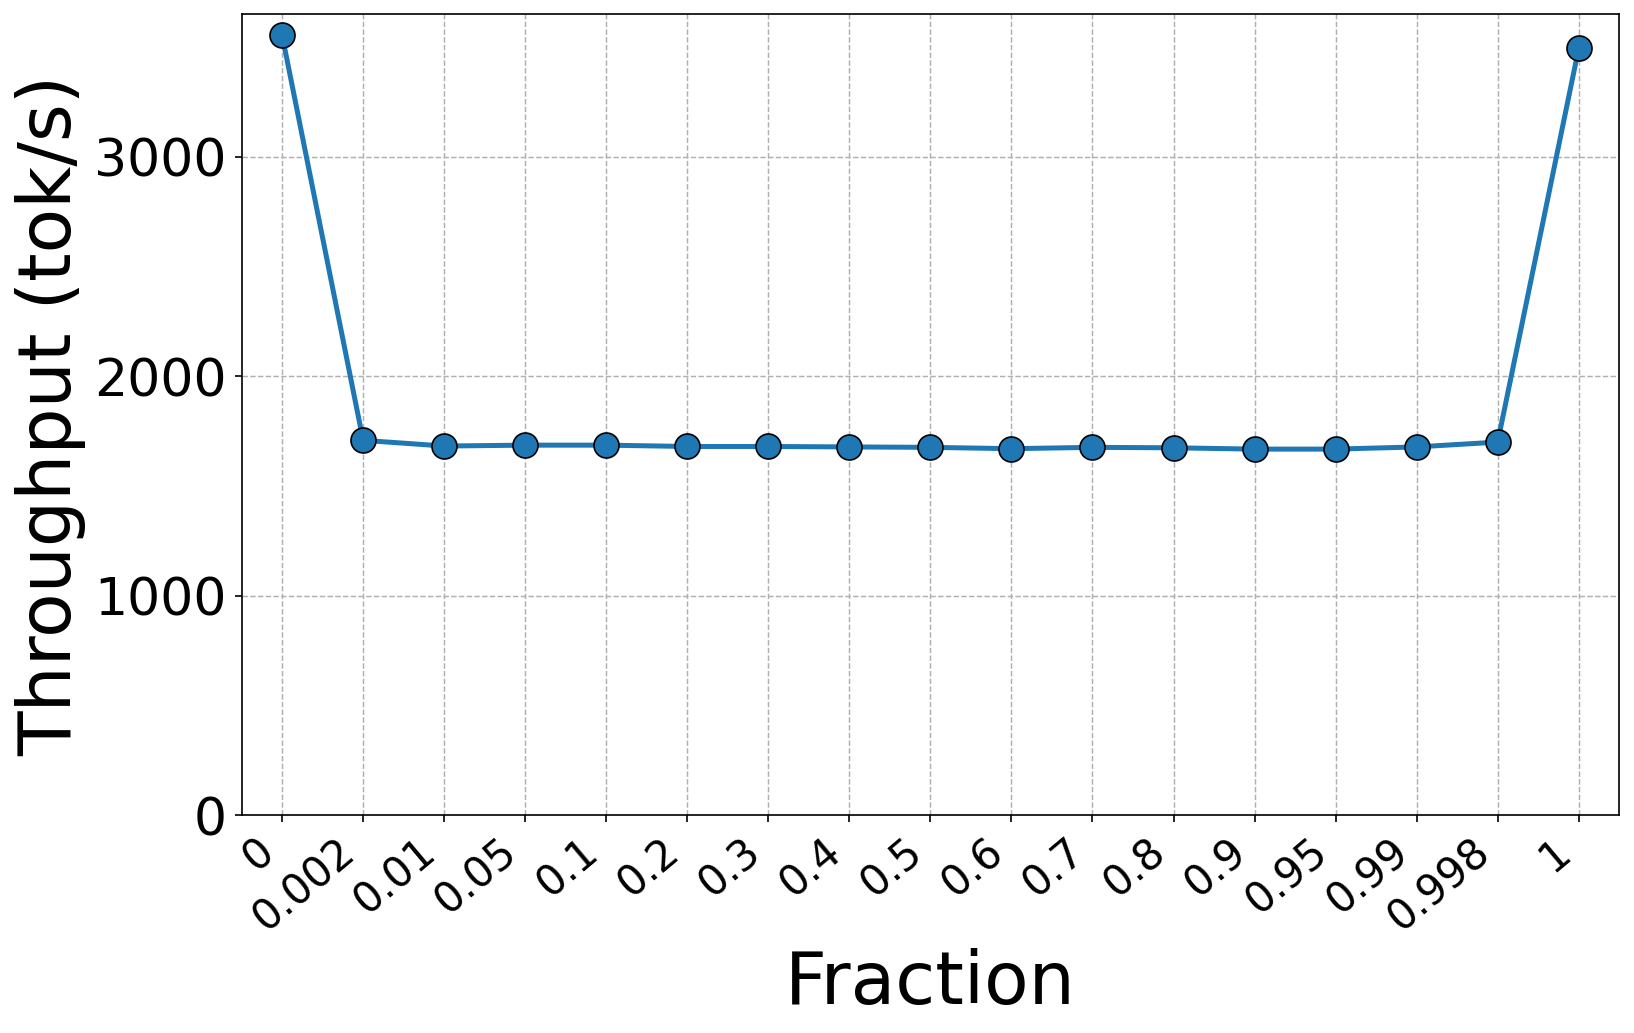
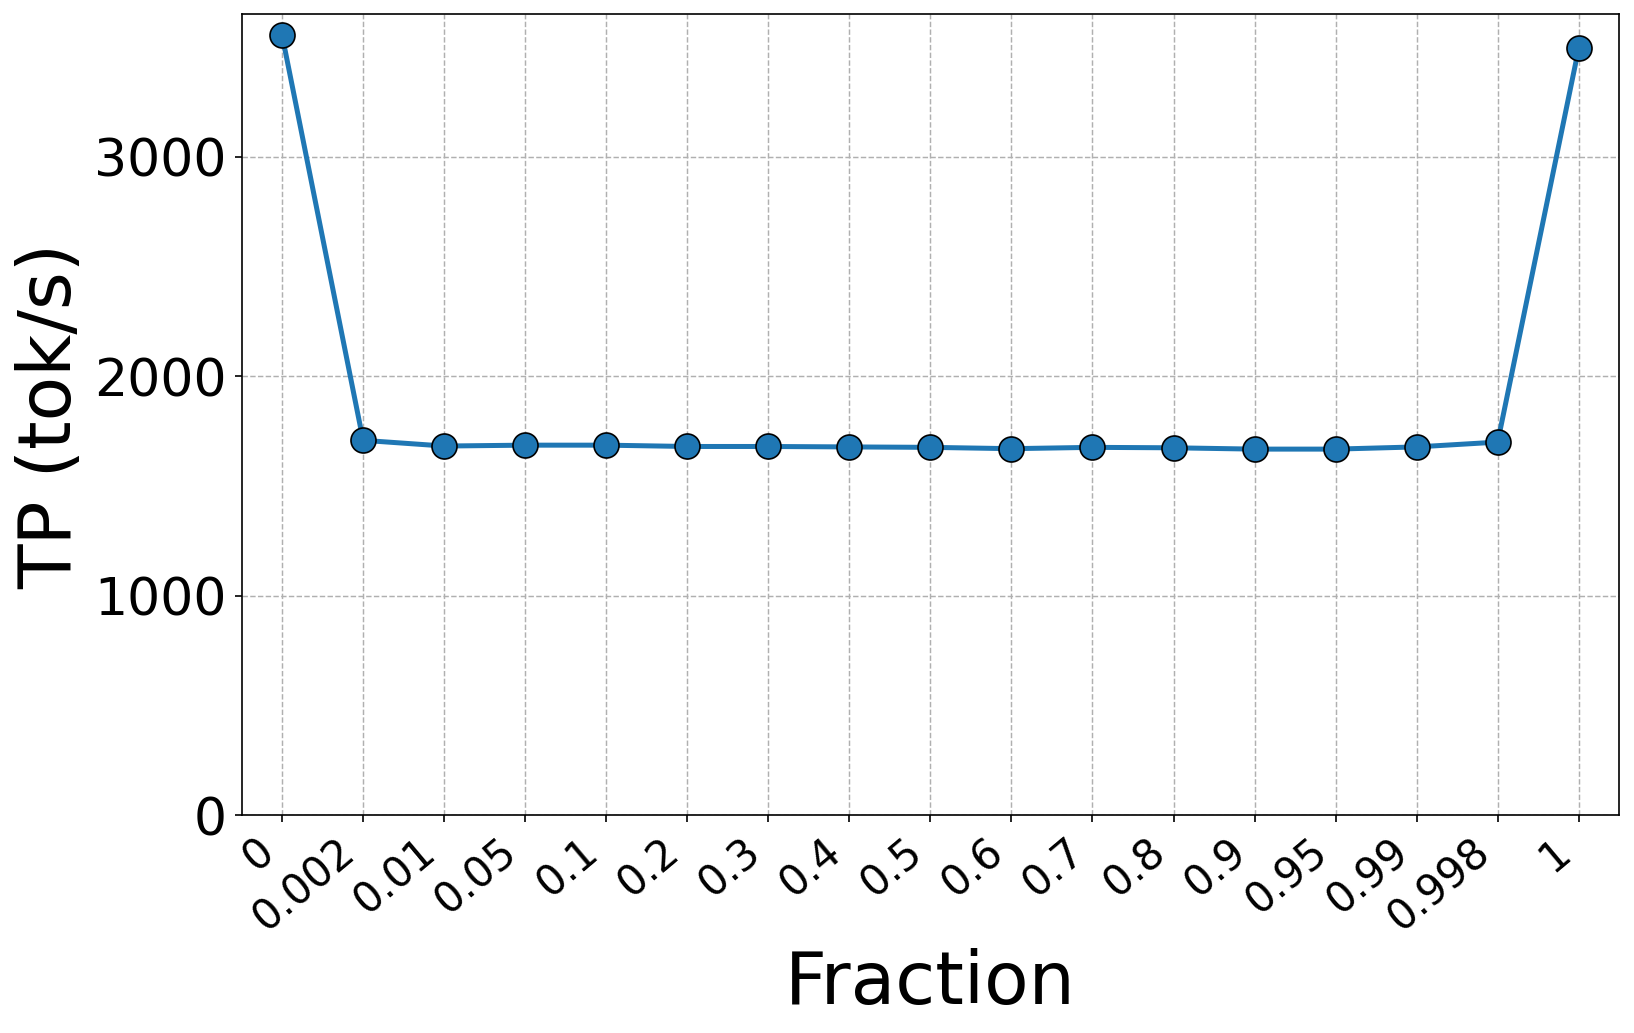
two-fam

Changed region(s): [[0.0, 0.062, 0.0624, 0.7435]]

diff --git a/code/vllm/two_families_logs/plot.py b/code/vllm/two_families_logs/plot.py
@@ -321,7 +321,7 @@ def main():
     # 1. Throughput
     plot_single(
         fracs, tps,
-        ylabel  = "Throughput (tok/s)",
+        ylabel  = "TP (tok/s)",
         outpath = os.path.join(OUT_DIR, "throughput_vs_fraction.png"),
     )
 
